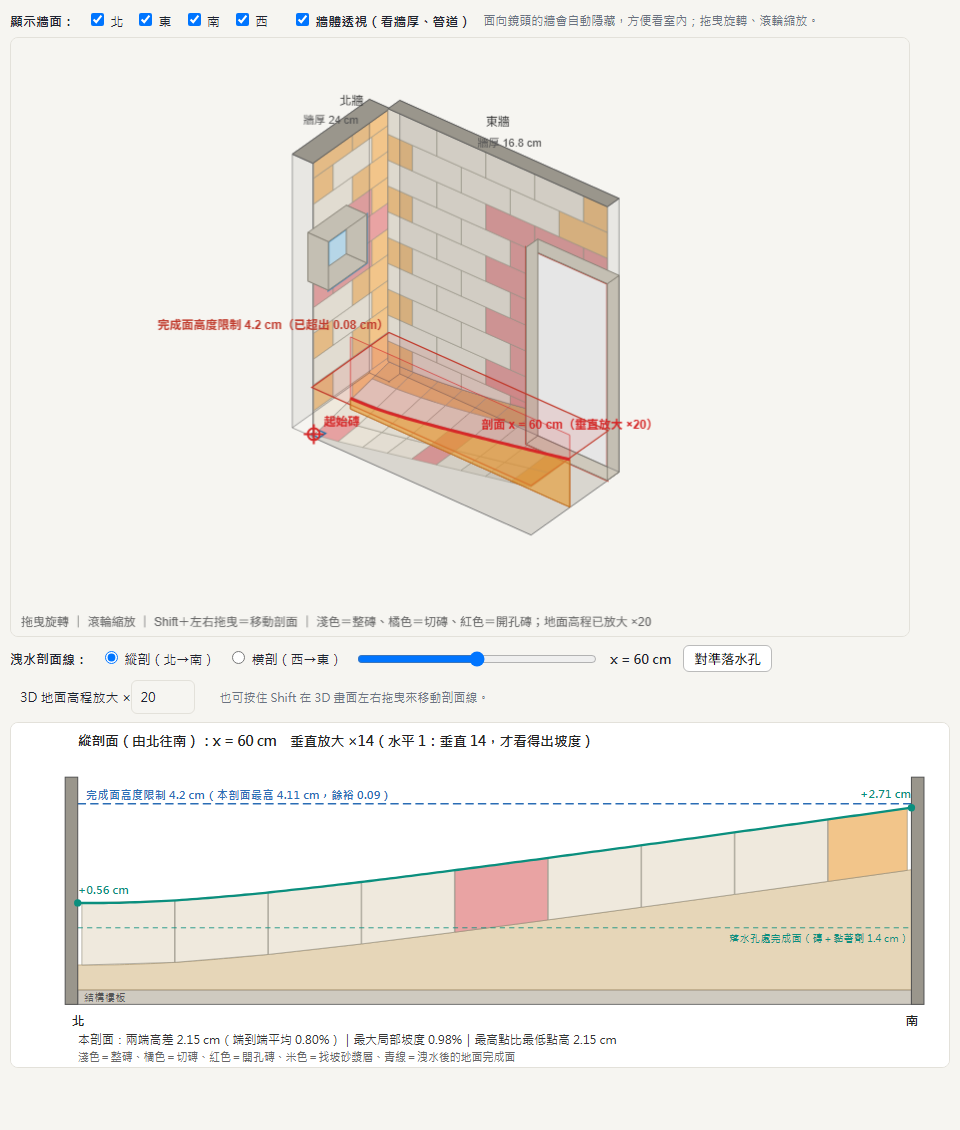
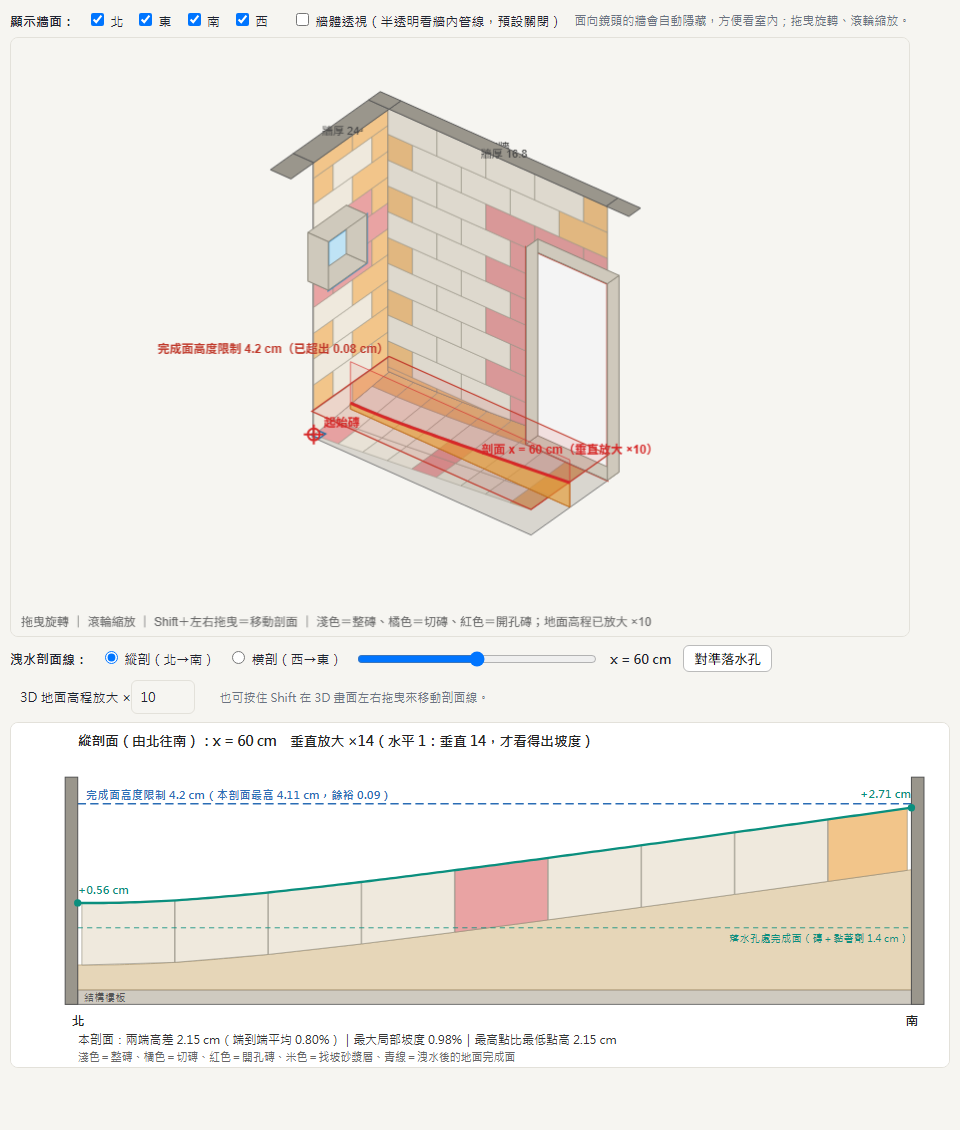
3D：牆面改為不透視（透視改為選項、預設關閉）；牆頂斷面與四個轉角連成一圈、無縫

diff --git a/20261017/students/A14530026_王品洋/tile-planner/磁磚計畫.html b/20261017/students/A14530026_王品洋/tile-planner/磁磚計畫.html
@@ -90,7 +90,7 @@ body.standalone .doc{max-width:960px;margin:0 auto;padding:16px}body.standalone 
   <div class="v3ctl"><b>顯示牆面：</b>
     <label><input type="checkbox" data-wall3d="N" checked> 北</label><label><input type="checkbox" data-wall3d="E" checked> 東</label>
     <label><input type="checkbox" data-wall3d="S" checked> 南</label><label><input type="checkbox" data-wall3d="W" checked> 西</label>
-    <label style="margin-left:12px"><input type="checkbox" data-xray checked> <b>牆體透視（看牆厚、管道）</b></label>
+    <label style="margin-left:12px"><input type="checkbox" data-xray> 牆體透視（半透明看牆內管線，預設關閉）</label>
     <span class="hint">面向鏡頭的牆會自動隱藏，方便看室內；拖曳旋轉、滾輪縮放。</span></div>
   <canvas id="cv3d" width="900" height="600"></canvas>
   <div class="v3sec"><b>洩水剖面線：</b>
@@ -1135,7 +1135,7 @@ function thresholdSVG(res) {
 /* ---------------------------------------------------------------- 3D 檢視器（canvas，滑鼠旋轉、滾輪縮放） */
 function Viewer3D(canvas) {
   this.cv = canvas; this.ctx = canvas.getContext('2d');
-  this.yaw = -0.6; this.pitch = 0.62; this.zoom = 1; this.res = null; this.showWalls = { N: true, E: true, S: true, W: true }; this.xray = true; this.k = 10; this.sec = { on: true, axis: 'x', pos: null }; this.onSec = null;
+  this.yaw = -0.6; this.pitch = 0.62; this.zoom = 1; this.res = null; this.showWalls = { N: true, E: true, S: true, W: true }; this.xray = false; this.k = 10; this.sec = { on: true, axis: 'x', pos: null }; this.onSec = null;
   var me = this, drag = null;
   canvas.addEventListener('mousedown', function (e) { drag = { x: e.clientX, y: e.clientY, yaw: me.yaw, pitch: me.pitch, shift: e.shiftKey, pos: me.secPos() }; });
   window.addEventListener('mouseup', function () { drag = null; });
@@ -1272,14 +1272,25 @@ Viewer3D.prototype.draw = function () {
           ctx.beginPath(); ctx.arc(p1[0], p1[1], Math.max(3, f.dia * scale / 2), 0, 6.283); ctx.fillStyle = f.kind === 'supply' ? '#1d6fa5' : '#444'; ctx.fill();
         });
       }
-      // 牆頂斷面（天花板高處的牆厚）
-      var pc = [back(0, R.H), back(sf.len, R.H), dw.map(sf.len, R.H), dw.map(0, R.H)];
-      poly(pc, '#9a968c', '#555', 1);
-      ctx.fillStyle = '#555'; ctx.font = '11px sans-serif'; ctx.textAlign = 'center';
-      var mc = P(back(sf.len / 2, R.H)); ctx.fillText('牆厚 ' + tk + ' cm', mc[0], mc[1] - 3);
     }
     ctx.fillStyle = '#333'; ctx.font = '12px sans-serif';
-    var lp = P(dw.map(sf.len / 2, R.H + 2)); ctx.textAlign = 'center'; ctx.fillText(E.WALL_ZH[dw.w], lp[0], lp[1] - (tk > 0 ? 30 : 4));
+    var lp = P(dw.map(sf.len / 2, R.H + 2)); ctx.textAlign = 'center'; ctx.fillText(E.WALL_ZH[dw.w], lp[0], lp[1] - 4);
+  });
+  // 牆頂斷面：四面牆與四個轉角連成一圈，從磁磚完成面一路填到粗胚外緣
+  var TT = R.wallT || { N: 0, E: 0, S: 0, W: 0 }, vs = {};
+  vis.forEach(function (dw) { vs[dw.w] = true; });
+  function cap(x0, y0, x1, y1) { poly([[x0, y0, R.H], [x1, y0, R.H], [x1, y1, R.H], [x0, y1, R.H]], '#9a968c', '#555', 1); }
+  if (vs.N && TT.N > 0) { cap(ew, -TT.N, R.L - ew, ew); }
+  if (vs.S && TT.S > 0) { cap(ew, R.D - ew, R.L - ew, R.D + TT.S); }
+  if (vs.W && TT.W > 0) { cap(-TT.W, ew, ew, R.D - ew); }
+  if (vs.E && TT.E > 0) { cap(R.L - ew, ew, R.L + TT.E, R.D - ew); }
+  if ((vs.N || vs.W) && (TT.N > 0 || TT.W > 0)) { cap(-TT.W, -TT.N, ew, ew); }
+  if ((vs.N || vs.E) && (TT.N > 0 || TT.E > 0)) { cap(R.L - ew, -TT.N, R.L + TT.E, ew); }
+  if ((vs.S || vs.W) && (TT.S > 0 || TT.W > 0)) { cap(-TT.W, R.D - ew, ew, R.D + TT.S); }
+  if ((vs.S || vs.E) && (TT.S > 0 || TT.E > 0)) { cap(R.L - ew, R.D - ew, R.L + TT.E, R.D + TT.S); }
+  ctx.fillStyle = '#444'; ctx.font = '11px sans-serif'; ctx.textAlign = 'center';
+  [['N', R.L / 2, -TT.N / 2], ['S', R.L / 2, R.D + TT.S / 2], ['W', -TT.W / 2, R.D / 2], ['E', R.L + TT.E / 2, R.D / 2]].forEach(function (q) {
+    if (vs[q[0]] && TT[q[0]] > 0) { var pp = P([q[1], q[2], R.H]); ctx.fillText('牆厚 ' + TT[q[0]], pp[0], pp[1] + 4); }
   });
   // 完成面高度限制平面（以放大後的洩水高差換算位置）
   var slI = res.floor.slope;

diff --git a/20261017/students/A14530026_王品洋/tile-planner/src/draw.js b/20261017/students/A14530026_王品洋/tile-planner/src/draw.js
@@ -283,7 +283,7 @@ function thresholdSVG(res) {
 /* ---------------------------------------------------------------- 3D 檢視器（canvas，滑鼠旋轉、滾輪縮放） */
 function Viewer3D(canvas) {
   this.cv = canvas; this.ctx = canvas.getContext('2d');
-  this.yaw = -0.6; this.pitch = 0.62; this.zoom = 1; this.res = null; this.showWalls = { N: true, E: true, S: true, W: true }; this.xray = true; this.k = 10; this.sec = { on: true, axis: 'x', pos: null }; this.onSec = null;
+  this.yaw = -0.6; this.pitch = 0.62; this.zoom = 1; this.res = null; this.showWalls = { N: true, E: true, S: true, W: true }; this.xray = false; this.k = 10; this.sec = { on: true, axis: 'x', pos: null }; this.onSec = null;
   var me = this, drag = null;
   canvas.addEventListener('mousedown', function (e) { drag = { x: e.clientX, y: e.clientY, yaw: me.yaw, pitch: me.pitch, shift: e.shiftKey, pos: me.secPos() }; });
   window.addEventListener('mouseup', function () { drag = null; });
@@ -420,14 +420,25 @@ Viewer3D.prototype.draw = function () {
           ctx.beginPath(); ctx.arc(p1[0], p1[1], Math.max(3, f.dia * scale / 2), 0, 6.283); ctx.fillStyle = f.kind === 'supply' ? '#1d6fa5' : '#444'; ctx.fill();
         });
       }
-      // 牆頂斷面（天花板高處的牆厚）
-      var pc = [back(0, R.H), back(sf.len, R.H), dw.map(sf.len, R.H), dw.map(0, R.H)];
-      poly(pc, '#9a968c', '#555', 1);
-      ctx.fillStyle = '#555'; ctx.font = '11px sans-serif'; ctx.textAlign = 'center';
-      var mc = P(back(sf.len / 2, R.H)); ctx.fillText('牆厚 ' + tk + ' cm', mc[0], mc[1] - 3);
     }
     ctx.fillStyle = '#333'; ctx.font = '12px sans-serif';
-    var lp = P(dw.map(sf.len / 2, R.H + 2)); ctx.textAlign = 'center'; ctx.fillText(E.WALL_ZH[dw.w], lp[0], lp[1] - (tk > 0 ? 30 : 4));
+    var lp = P(dw.map(sf.len / 2, R.H + 2)); ctx.textAlign = 'center'; ctx.fillText(E.WALL_ZH[dw.w], lp[0], lp[1] - 4);
+  });
+  // 牆頂斷面：四面牆與四個轉角連成一圈，從磁磚完成面一路填到粗胚外緣
+  var TT = R.wallT || { N: 0, E: 0, S: 0, W: 0 }, vs = {};
+  vis.forEach(function (dw) { vs[dw.w] = true; });
+  function cap(x0, y0, x1, y1) { poly([[x0, y0, R.H], [x1, y0, R.H], [x1, y1, R.H], [x0, y1, R.H]], '#9a968c', '#555', 1); }
+  if (vs.N && TT.N > 0) { cap(ew, -TT.N, R.L - ew, ew); }
+  if (vs.S && TT.S > 0) { cap(ew, R.D - ew, R.L - ew, R.D + TT.S); }
+  if (vs.W && TT.W > 0) { cap(-TT.W, ew, ew, R.D - ew); }
+  if (vs.E && TT.E > 0) { cap(R.L - ew, ew, R.L + TT.E, R.D - ew); }
+  if ((vs.N || vs.W) && (TT.N > 0 || TT.W > 0)) { cap(-TT.W, -TT.N, ew, ew); }
+  if ((vs.N || vs.E) && (TT.N > 0 || TT.E > 0)) { cap(R.L - ew, -TT.N, R.L + TT.E, ew); }
+  if ((vs.S || vs.W) && (TT.S > 0 || TT.W > 0)) { cap(-TT.W, R.D - ew, ew, R.D + TT.S); }
+  if ((vs.S || vs.E) && (TT.S > 0 || TT.E > 0)) { cap(R.L - ew, R.D - ew, R.L + TT.E, R.D + TT.S); }
+  ctx.fillStyle = '#444'; ctx.font = '11px sans-serif'; ctx.textAlign = 'center';
+  [['N', R.L / 2, -TT.N / 2], ['S', R.L / 2, R.D + TT.S / 2], ['W', -TT.W / 2, R.D / 2], ['E', R.L + TT.E / 2, R.D / 2]].forEach(function (q) {
+    if (vs[q[0]] && TT[q[0]] > 0) { var pp = P([q[1], q[2], R.H]); ctx.fillText('牆厚 ' + TT[q[0]], pp[0], pp[1] + 4); }
   });
   // 完成面高度限制平面（以放大後的洩水高差換算位置）
   var slI = res.floor.slope;

diff --git a/20261017/students/A14530026_王品洋/tile-planner/src/index.template.html b/20261017/students/A14530026_王品洋/tile-planner/src/index.template.html
@@ -28,7 +28,7 @@
   <div class="v3ctl"><b>顯示牆面：</b>
     <label><input type="checkbox" data-wall3d="N" checked> 北</label><label><input type="checkbox" data-wall3d="E" checked> 東</label>
     <label><input type="checkbox" data-wall3d="S" checked> 南</label><label><input type="checkbox" data-wall3d="W" checked> 西</label>
-    <label style="margin-left:12px"><input type="checkbox" data-xray checked> <b>牆體透視（看牆厚、管道）</b></label>
+    <label style="margin-left:12px"><input type="checkbox" data-xray> 牆體透視（半透明看牆內管線，預設關閉）</label>
     <span class="hint">面向鏡頭的牆會自動隱藏，方便看室內；拖曳旋轉、滾輪縮放。</span></div>
   <canvas id="cv3d" width="900" height="600"></canvas>
   <div class="v3sec"><b>洩水剖面線：</b>
